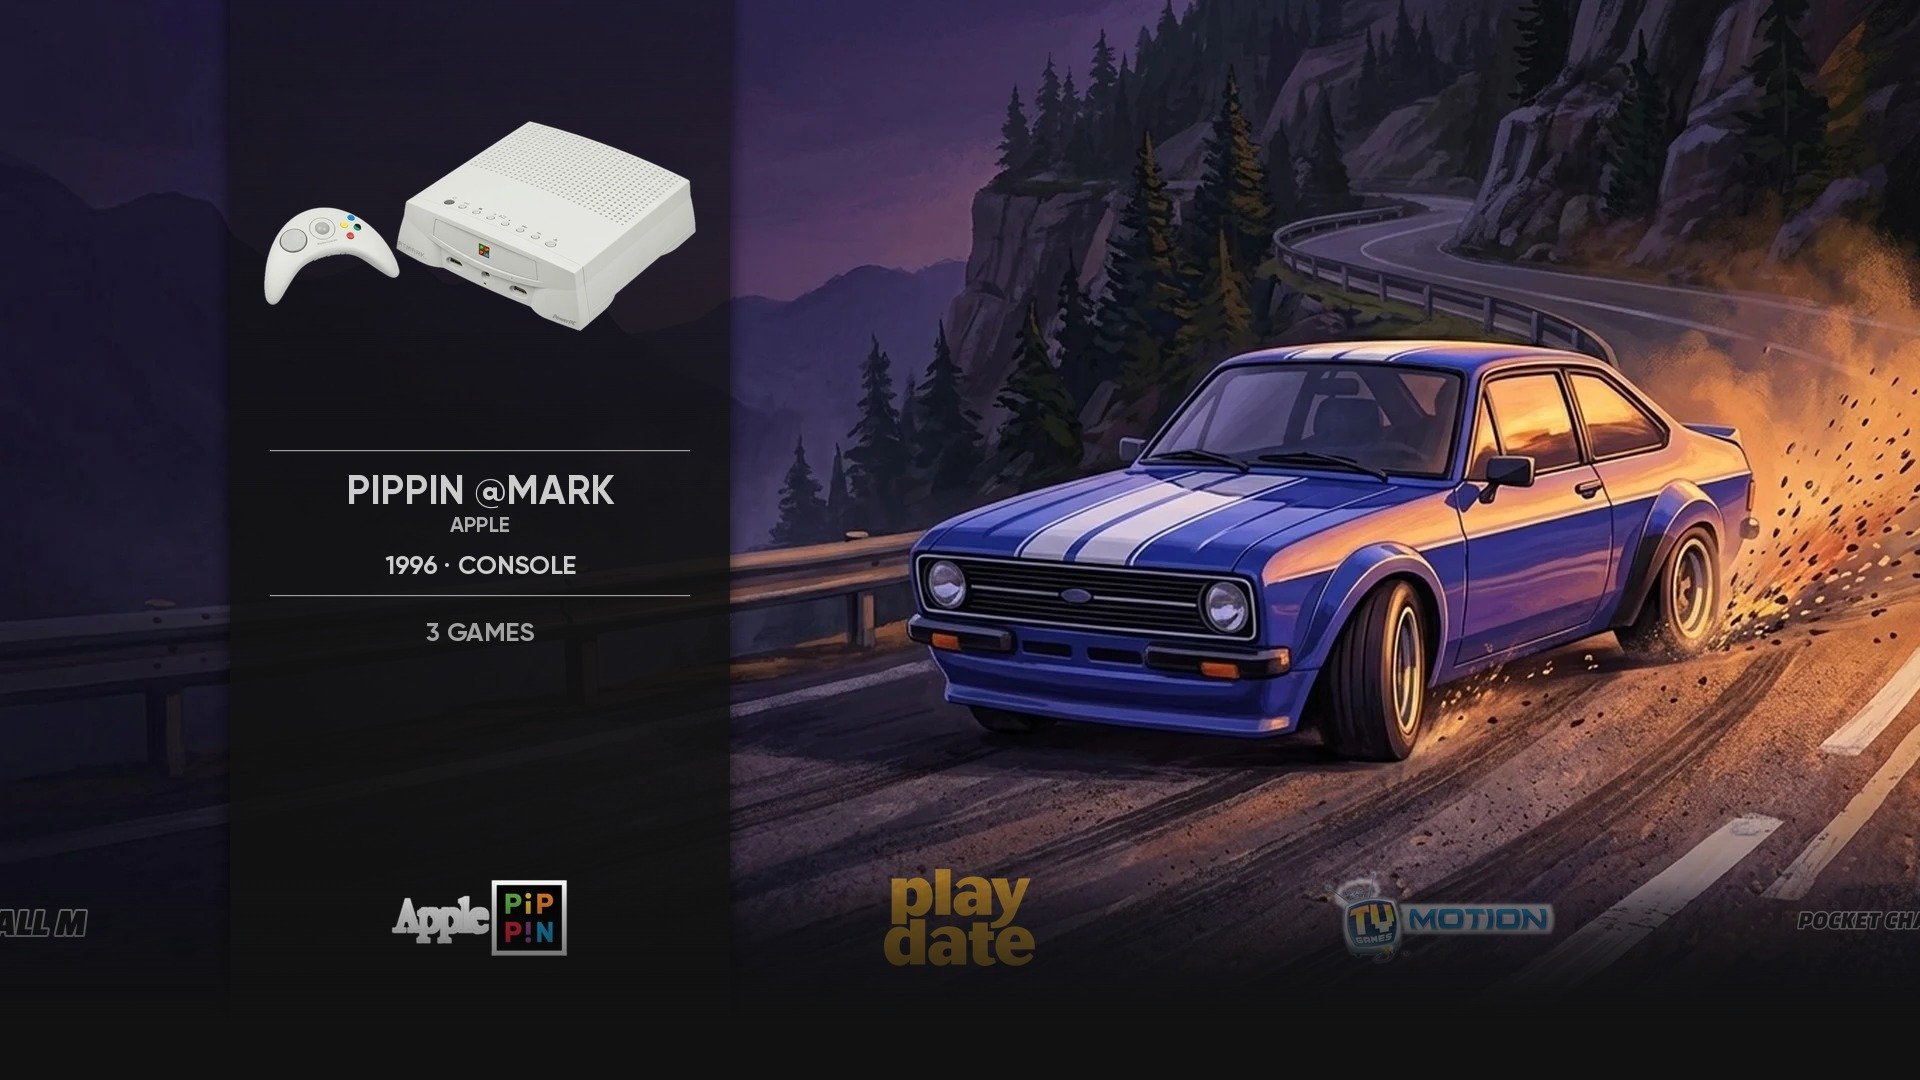
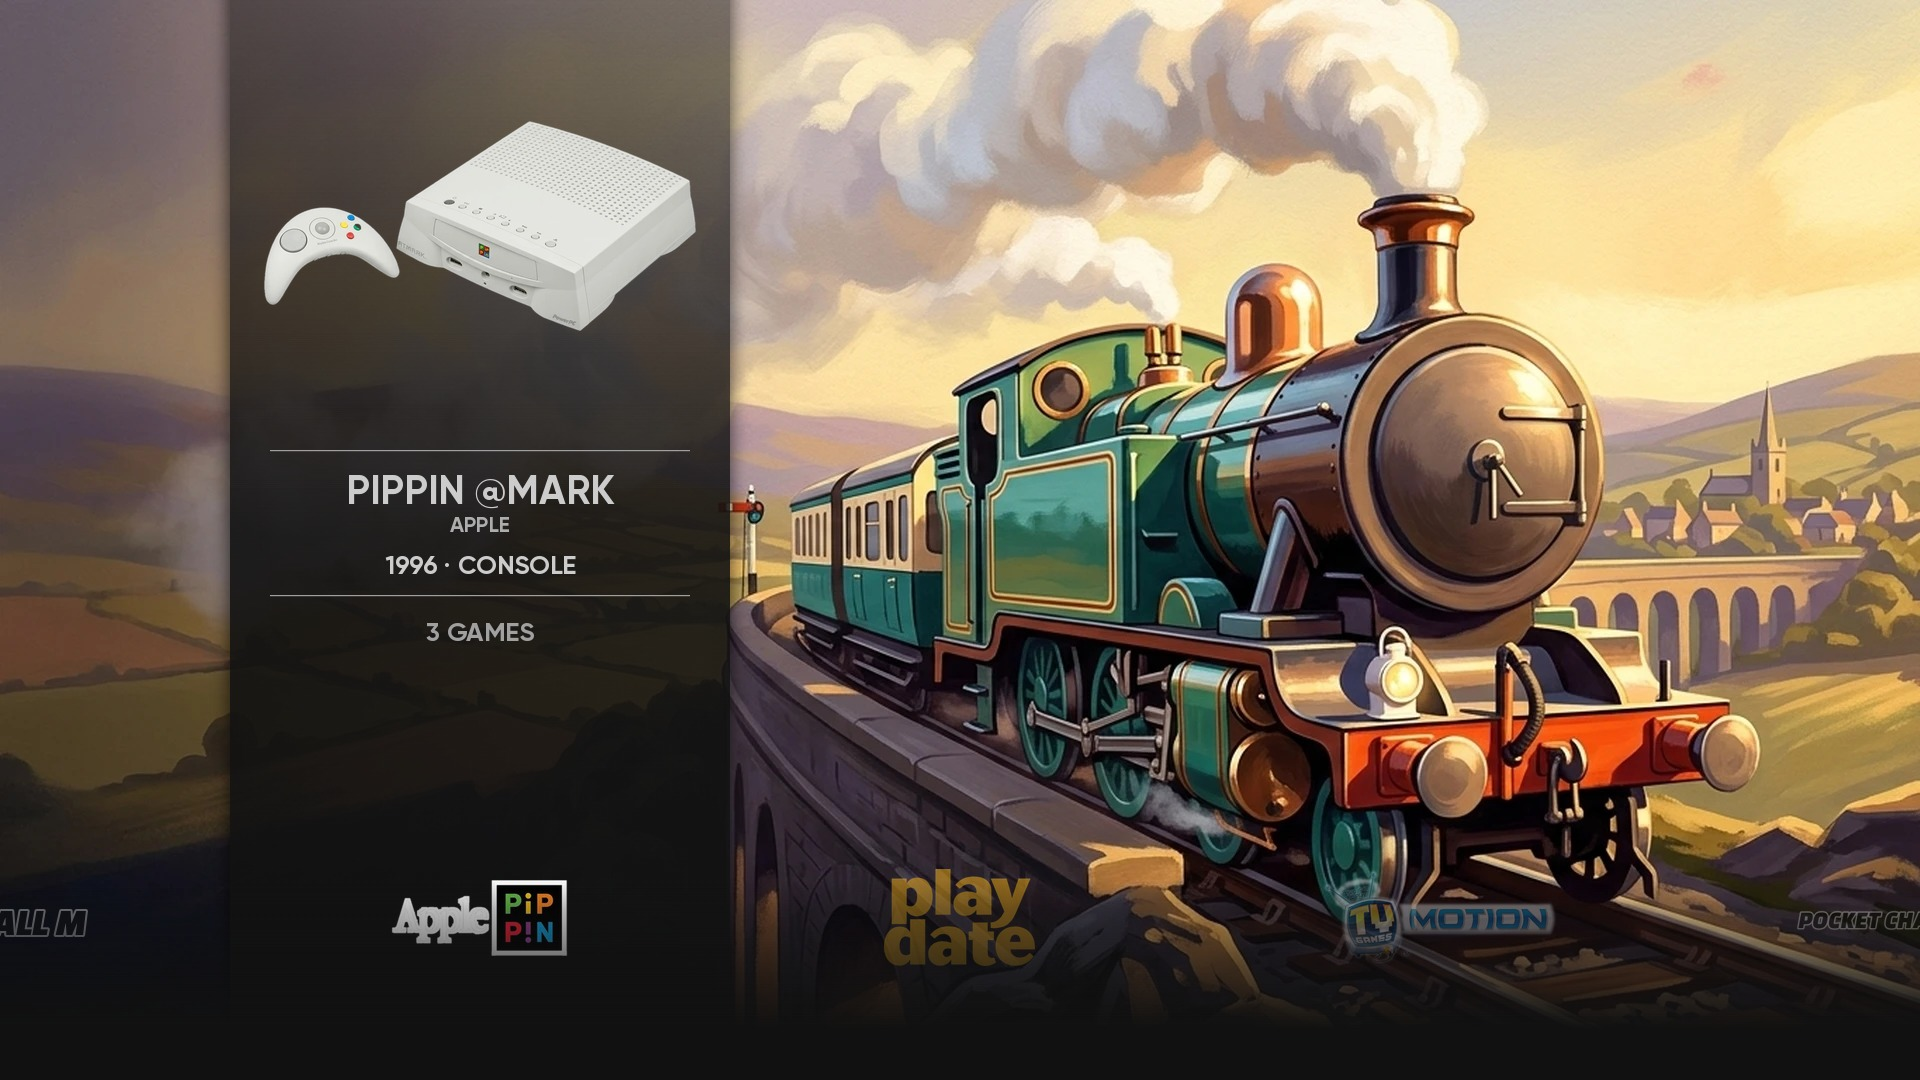
Pippin: steam tank engine tribute background; rally coupe kept as spare generic car
Claude-Session: https://claude.ai/code/session_01B7tWnGzhwYXUpjDmxMAoUT

diff --git a/tools/make_todo.py b/tools/make_todo.py
@@ -11,7 +11,7 @@ salv={r[0]:r for r in tsv('salvage_log.tsv')}
 arc={r[0]:r[1] for r in tsv('arcade_bg_log.tsv')}
 ctl={r[0]:r[1] for r in tsv('controllers_log.tsv')}
 themes=sorted(set(names)-orig)
-custom={"igspgm":"Oriental Legend / Knights of Valour-style: original Three Kingdoms halberd general facing an armoured war boar in a misty gorge (Gemini, original characters) - installed","zinc":"Rival Schools-style: original schoolboy in a red scarf flying-kicking against a setting sun with cherry petals (Gemini, original character) - installed; metadata renamed Sony ZN (ZiNc), 1995","gaelco":"Radikal Bikers-style: original pizza courier on an orange scooter racing a rainy neon street, pizzas flying (Gemini, original character) - installed; year set to 1996 (unsure)","unis":"Sky Kart-style: original teal-ponytail girl in a yellow helmet driving a pink go-kart off a rainbow trail among balloons and confetti (Gemini, original character) - installed","rawthrills":"The Fast and the Furious-style: original unbadged yellow-and-black-striped sports coupe jumping a ramp through a fireball (Gemini, original) - installed; year set to 2004","pippin":"Racing Days-style rally game: original cobalt rally coupe drifting a mountain hairpin at dusk (Gemini, original) - installed; year corrected 1986 to 1996","n501":"Tempest-style tube shooter: golden bat-wing starfighter firing down a neon vortex tunnel at a red crystal enemy (Gemini, original) - installed; name shortened to NUON DVD-N501, hardware type set to console","ondra":"Tenebra-style crypt puzzle: wanderer at a cracking rune door (Gemini, original character) - installed","orao":"Nevidljivi-style invisible presence in a foggy fortress courtyard (Gemini, original character) - installed","studio2":"Bowling-style strike, giant marble ball vs ten pins (Gemini; built-in Studio II game) - installed","segaalls":"House of the Dead (Gemini) - installed","segare":"Initial D (Gemini) - installed","segarw":"Daytona-style oval (Gemini) - installed","segaer":"Sega Rally-style scene (Gemini) - installed","seganu":"Hatsune Miku-style concert (Gemini) - installed","aleck64":"Starfighter scene (Gemini) - installed","abc80":"Atlantis sunken city (Gemini) - installed","actionmax":"Sonic Fury jet dogfight (Gemini) - installed (bg from a 1024px copy - swap for full-size if re-downloaded)","alice32":"Space pirate raid (Gemini) - installed","segasystem32":"Golden Axe-style barbarian (Gemini) - installed","apogeebk01":"Bad Road Soviet car (Gemini) - installed","namco11":"Tekken-style martial arts clash (Gemini) - installed","galaxy":"Diamond Mine miner (Gemini) - installed","aquarius":"Treasure of Tarmin-style dungeon (Gemini) - installed","jupace":"Starfighter vs alien hive over Jupiter (Gemini) - installed","mbee":"Bunyip Adventure bunyip billabong (Gemini) - installed","cgenie":"Astronaut vs one-eyed slime alien (Gemini) - installed","sorcerer":"Sorcerer vs dragon cavern (Gemini) - installed","pecom64":"Cosmonaut vs rusted robot guardian (Gemini) - installed","ibmpcjr":"Knight arriving at fairy-tale castle, King's Quest-style (Gemini) - installed","exl100":"Hover-bike rider vs giant mechanical scorpion (Gemini) - installed","hec2hr":"Mining robot vs crystal cavern (Gemini) - installed","mtx512":"Miner-astronaut vs spider walker in crystal cavern (Gemini) - installed","p2000t":"Retro rocket-plane vs mechanical kraken (Gemini) - installed","m5":"Ninja vs oni demon, moonlit pagoda (Gemini) - installed","vg5k":"Deep-sea diver vs luminous jellyfish, sunken palace (Gemini) - installed","tvc64":"Hungarian warrior on winged horse vs three-headed dragon (Gemini) - installed","ep128":"Jetpack explorer vs crystalline space-whale (Gemini) - installed","cassettevision":"Kikori no Yosaku-style woodcutter (Gemini) - installed","pv2000":"Astronaut kid vs chrome robot crab on the moon (Gemini, generic) - installed","microvsn":"Space ranger vs cosmic wasp, Cosmic Hunter-style (Gemini, generic) - installed","vidbrain":"American football quarterback under floodlights, VideoBrain Football-style (Gemini, generic) - installed","cbm2":"Astronaut watching a lunar lander touch down (Gemini, generic) - installed","sv8000":"Retro pilot vs saucer mothership over a night city (Gemini, generic) - installed","pegasus":"Mountain warden vs stone golem (Gemini, generic) - installed","mpu1000":"Rocket patrol vs alien saucer, early TV-game style (Gemini, generic) - installed","myvision":"Master player at floating shogi/mahjong board (Gemini, generic) - installed","elektronika":"Farmhand girl catching a golden egg in a basket, Ну, погоди!-style egg catching (Gemini, original character) - installed","bk":"Cosmonaut walking to a red-lit space station on an ice planet (Gemini, generic) - installed","vemulator":"Round robot companion leaping over a neon ocean (Gemini, generic) - installed","pocketstation":"Rain-coat adventurer riding a glowing manta ray over floating islands (Gemini, generic) - installed"}
+custom={"igspgm":"Oriental Legend / Knights of Valour-style: original Three Kingdoms halberd general facing an armoured war boar in a misty gorge (Gemini, original characters) - installed","zinc":"Rival Schools-style: original schoolboy in a red scarf flying-kicking against a setting sun with cherry petals (Gemini, original character) - installed; metadata renamed Sony ZN (ZiNc), 1995","gaelco":"Radikal Bikers-style: original pizza courier on an orange scooter racing a rainy neon street, pizzas flying (Gemini, original character) - installed; year set to 1996 (unsure)","unis":"Sky Kart-style: original teal-ponytail girl in a yellow helmet driving a pink go-kart off a rainbow trail among balloons and confetti (Gemini, original character) - installed","rawthrills":"The Fast and the Furious-style: original unbadged yellow-and-black-striped sports coupe jumping a ramp through a fireball (Gemini, original) - installed; year set to 2004","pippin":"Storybook steam tank engine tribute: original teal-green and copper engine on a stone viaduct at golden hour, no face or lettering (Gemini, original) - installed; year corrected 1986 to 1996","n501":"Tempest-style tube shooter: golden bat-wing starfighter firing down a neon vortex tunnel at a red crystal enemy (Gemini, original) - installed; name shortened to NUON DVD-N501, hardware type set to console","ondra":"Tenebra-style crypt puzzle: wanderer at a cracking rune door (Gemini, original character) - installed","orao":"Nevidljivi-style invisible presence in a foggy fortress courtyard (Gemini, original character) - installed","studio2":"Bowling-style strike, giant marble ball vs ten pins (Gemini; built-in Studio II game) - installed","segaalls":"House of the Dead (Gemini) - installed","segare":"Initial D (Gemini) - installed","segarw":"Daytona-style oval (Gemini) - installed","segaer":"Sega Rally-style scene (Gemini) - installed","seganu":"Hatsune Miku-style concert (Gemini) - installed","aleck64":"Starfighter scene (Gemini) - installed","abc80":"Atlantis sunken city (Gemini) - installed","actionmax":"Sonic Fury jet dogfight (Gemini) - installed (bg from a 1024px copy - swap for full-size if re-downloaded)","alice32":"Space pirate raid (Gemini) - installed","segasystem32":"Golden Axe-style barbarian (Gemini) - installed","apogeebk01":"Bad Road Soviet car (Gemini) - installed","namco11":"Tekken-style martial arts clash (Gemini) - installed","galaxy":"Diamond Mine miner (Gemini) - installed","aquarius":"Treasure of Tarmin-style dungeon (Gemini) - installed","jupace":"Starfighter vs alien hive over Jupiter (Gemini) - installed","mbee":"Bunyip Adventure bunyip billabong (Gemini) - installed","cgenie":"Astronaut vs one-eyed slime alien (Gemini) - installed","sorcerer":"Sorcerer vs dragon cavern (Gemini) - installed","pecom64":"Cosmonaut vs rusted robot guardian (Gemini) - installed","ibmpcjr":"Knight arriving at fairy-tale castle, King's Quest-style (Gemini) - installed","exl100":"Hover-bike rider vs giant mechanical scorpion (Gemini) - installed","hec2hr":"Mining robot vs crystal cavern (Gemini) - installed","mtx512":"Miner-astronaut vs spider walker in crystal cavern (Gemini) - installed","p2000t":"Retro rocket-plane vs mechanical kraken (Gemini) - installed","m5":"Ninja vs oni demon, moonlit pagoda (Gemini) - installed","vg5k":"Deep-sea diver vs luminous jellyfish, sunken palace (Gemini) - installed","tvc64":"Hungarian warrior on winged horse vs three-headed dragon (Gemini) - installed","ep128":"Jetpack explorer vs crystalline space-whale (Gemini) - installed","cassettevision":"Kikori no Yosaku-style woodcutter (Gemini) - installed","pv2000":"Astronaut kid vs chrome robot crab on the moon (Gemini, generic) - installed","microvsn":"Space ranger vs cosmic wasp, Cosmic Hunter-style (Gemini, generic) - installed","vidbrain":"American football quarterback under floodlights, VideoBrain Football-style (Gemini, generic) - installed","cbm2":"Astronaut watching a lunar lander touch down (Gemini, generic) - installed","sv8000":"Retro pilot vs saucer mothership over a night city (Gemini, generic) - installed","pegasus":"Mountain warden vs stone golem (Gemini, generic) - installed","mpu1000":"Rocket patrol vs alien saucer, early TV-game style (Gemini, generic) - installed","myvision":"Master player at floating shogi/mahjong board (Gemini, generic) - installed","elektronika":"Farmhand girl catching a golden egg in a basket, Ну, погоди!-style egg catching (Gemini, original character) - installed","bk":"Cosmonaut walking to a red-lit space station on an ice planet (Gemini, generic) - installed","vemulator":"Round robot companion leaping over a neon ocean (Gemini, generic) - installed","pocketstation":"Rain-coat adventurer riding a glowing manta ray over floating islands (Gemini, generic) - installed"}
 custom_ctl={'igspgm':'Gemini three-cabinet group (PGM-style blue centre cabinet + two muted game cabinets), green-screen cut-out - installed','zinc':'Gemini three-cabinet group (Sony ZN-style centre cabinet + two muted game cabinets), green-screen cut-out - installed','gaelco':'PixN Carbon Gaelco A.V. TRACK cabinet image used as-is, cut-out (small, 248x283) - installed','unis':'Gemini three-cabinet group (UNIS blue centre cabinet + Sky Kart and Ticket Rush game cabinets, original games), green-screen cut-out - installed','rawthrills':'Gemini three-cabinet group (RAW Thrills red standard centre cabinet + FAST LANE and ALIEN SIEGE side cabinets, original games), cut out; logo on a black plate - installed','segaalls':'SWDC cabinet cut-out - installed','segare':'Initial D Ver.3 cabinet cut-out - installed (Ver.3 is NAOMI 2 era)'}
 JP_NOART={'dreamcast-jp','gc-jp','n64-jp','ps2-jp','psx-jp','mark3','iqueplayer'}
 import json

diff --git a/NIGHTLY_LOG.md b/NIGHTLY_LOG.md
@@ -424,3 +424,5 @@ NAS SYNC PENDING (NAS not mounted): copy to /Volumes/stuff/Emulation/TPN Iconic 
 - 2026-10-10 rawthrills: system image changed from the single Carbon cabinet to the standard three-cabinet group on user request. Centre = RAW Thrills branded cabinet (from the Carbon image), sides FAST LANE and ALIEN SIEGE (original games, glossy black bodies). Gemini returned a white background instead of green, so _tools/cutout_flat.py was used. Raw: sources/rawthrills/rawthrills_cab_3cab_gemini_raw.jpeg; old single cabinet kept as replaced/controllers-rawthrills-carbon-single.webp. NAS sync pending: mockups/rawthrills.jpg, sources/rawthrills/.
 - 2026-10-10 rawthrills REDONE (user: centre cabinet must be the standard cabinet like the sides, recoloured with the system logo and colours, not the Carbon cabinet). Centre is now the standard CPS2-style upright in vivid red/black with the RAW Thrills logo; sides FAST LANE and ALIEN SIEGE (glossy black). Raw: sources/rawthrills/rawthrills_cab_3cab_v2_standardcentre_gemini_raw.jpeg (green screen, cutout_green.py). Previous v1 kept as replaced/controllers-rawthrills-v1-carbon-centre.webp. Right marquee text is slightly garbled at small size. Rule for all arcade groups: centre = same standard cabinet as the sides, recoloured in the system's colours with its logo.
 - 2026-10-10 igspgm REDONE (side cabinets were faded/pale): glossy black bodies and vivid ORIENTAL LEGEND / KNIGHTS OF VALOUR vinyl, red PGM standard centre cabinet. Gemini drew thin green gaps between cabinets (first try only cut out one cabinet), so added _tools/cutout_green_group.py which keeps all cabinets and bridges the gaps with a dark fill. Raws: sources/igspgm/igspgm_cab_3cab_v2_black_gemini_raw.jpeg (rejected), igspgm_cab_3cab_v3_black_gemini_raw.jpeg (installed). Faded v1: replaced/controllers-igspgm-v1-faded.webp. Side vinyl panels are fairly flat/wide compared with the OG CPS2 look - user to review. Scan result: segasystem32, aleck64 and namco11 groups are fine (vivid); unis was already moved to mockups/verified by the user so left alone (its side bodies look pale). Mockups regenerated into mockups/ because the verified copies were older than the art: seganu, segarw.
+- 2026-10-10 pippin: user says the rally coupe background does not fit; kept for a future generic car system in sources/spare/spare_generic_car_rally_coupe_hairpin_pippin.webp (+ _raw.jpg) and replaced/backgrounds-pippin-rally-coupe.webp. New Pippin background: original steam tank engine tribute (in progress).
+- 2026-10-10 pippin: NEW background installed: original storybook steam tank engine (teal-green with copper and brass, no face, no numbers or lettering) crossing a stone viaduct at golden hour, a nod to classic British tank-engine stories (not any specific character). Raw: sources/pippin/pippin_bg_steam_engine_gemini_raw.jpeg. Mockup: mockups/pippin.jpg. Rally coupe kept in sources/spare/ for a future generic car system.

diff --git a/TODO.md b/TODO.md
@@ -104,7 +104,7 @@ Every system in the PixN build that the original Iconic theme has no art for, wi
 | - [x] | p2000t | Philips P2000 | Retro rocket-plane vs mechanical kraken (Gemini) - installed | custom: Gemini flat plan-view render of the P2000T from the Carbon theme photo (3 follow-ups needed for top-down) | custom |  |
 | - [x] | pecom64 | Pecom 64 | Cosmonaut vs rusted robot guardian (Gemini) - installed | custom: Gemini top-down render from the Carbon theme Pecom 64 photo (keys redone black on 2nd pass) | custom |  |
 | - [x] | pegasus | Aamber Pegasus | Mountain warden vs stone golem (Gemini, generic) - installed | custom: Aamber Pegasus photo (Carbon theme, already flat top-down) cropped | custom |  |
-| - [x] | pippin | Pippin @mark | Racing Days-style rally game: original cobalt rally coupe drifting a mountain hairpin at dusk (Gemini, original) - installed; year corrected 1986 to 1996 | custom: Gemini green-screen render of the Apple Bandai Pippin Atmark console and controller from a Wikimedia Commons photo (Pippin-Atmark-Console-Set.png), cut out | custom |  |
+| - [x] | pippin | Pippin @mark | Storybook steam tank engine tribute: original teal-green and copper engine on a stone viaduct at golden hour, no face or lettering (Gemini, original) - installed; year corrected 1986 to 1996 | custom: Gemini green-screen render of the Apple Bandai Pippin Atmark console and controller from a Wikimedia Commons photo (Pippin-Atmark-Console-Set.png), cut out | custom |  |
 | - [x] | pocketstation | Sony PocketStation | Rain-coat adventurer riding a glowing manta ray over floating islands (Gemini, generic) - installed | custom: Sony PocketStation photo (Carbon theme, transparent) cropped | custom |  |
 | - [x] | pv2000 | PV-2000 | Astronaut kid vs chrome robot crab on the moon (Gemini, generic) - installed | custom: Gemini top-down render of the Casio PV-2000 from the Carbon theme photo | custom |  |
 | - [x] | segaalls | Sega ALLS | House of the Dead (Gemini) - installed | SWDC cabinet cut-out - installed | custom |  |

diff --git a/CREDITS-TPN.md b/CREDITS-TPN.md
@@ -75,3 +75,4 @@ Per-system sources are listed in _tools/salvage_log.tsv.
 - Gaelco PowerVR (gaelco): background generated with Google Gemini (original pizza courier, inspired by Radikal Bikers); system image is the TPN Carbon PixN Gaelco A.V. TRACK cabinet; logo from the TPN Carbon theme, sticker-styled.
 - UNIS Arcade Machines (unis): background and three-cabinet system image generated with Google Gemini (original kart racer; the Sky Kart and Ticket Rush cabinets are invented); logo from the TPN Carbon theme, sticker-styled.
 - RAW Thrills (rawthrills): background generated with Google Gemini (original unbadged coupe, inspired by The Fast and the Furious); system image is a Google Gemini three-cabinet group built from the TPN Carbon PixN RAW Thrills cabinet (side games FAST LANE and ALIEN SIEGE are invented); logo from the TPN Carbon theme on a black plate, sticker-styled.
+- Pippin @mark (pippin): background redone 2026-10-10 with Google Gemini (original teal-green and copper steam tank engine on a stone viaduct, a generic tribute to classic British tank-engine stories); replaces the rally coupe, which is kept in sources/spare for a future generic car system.
